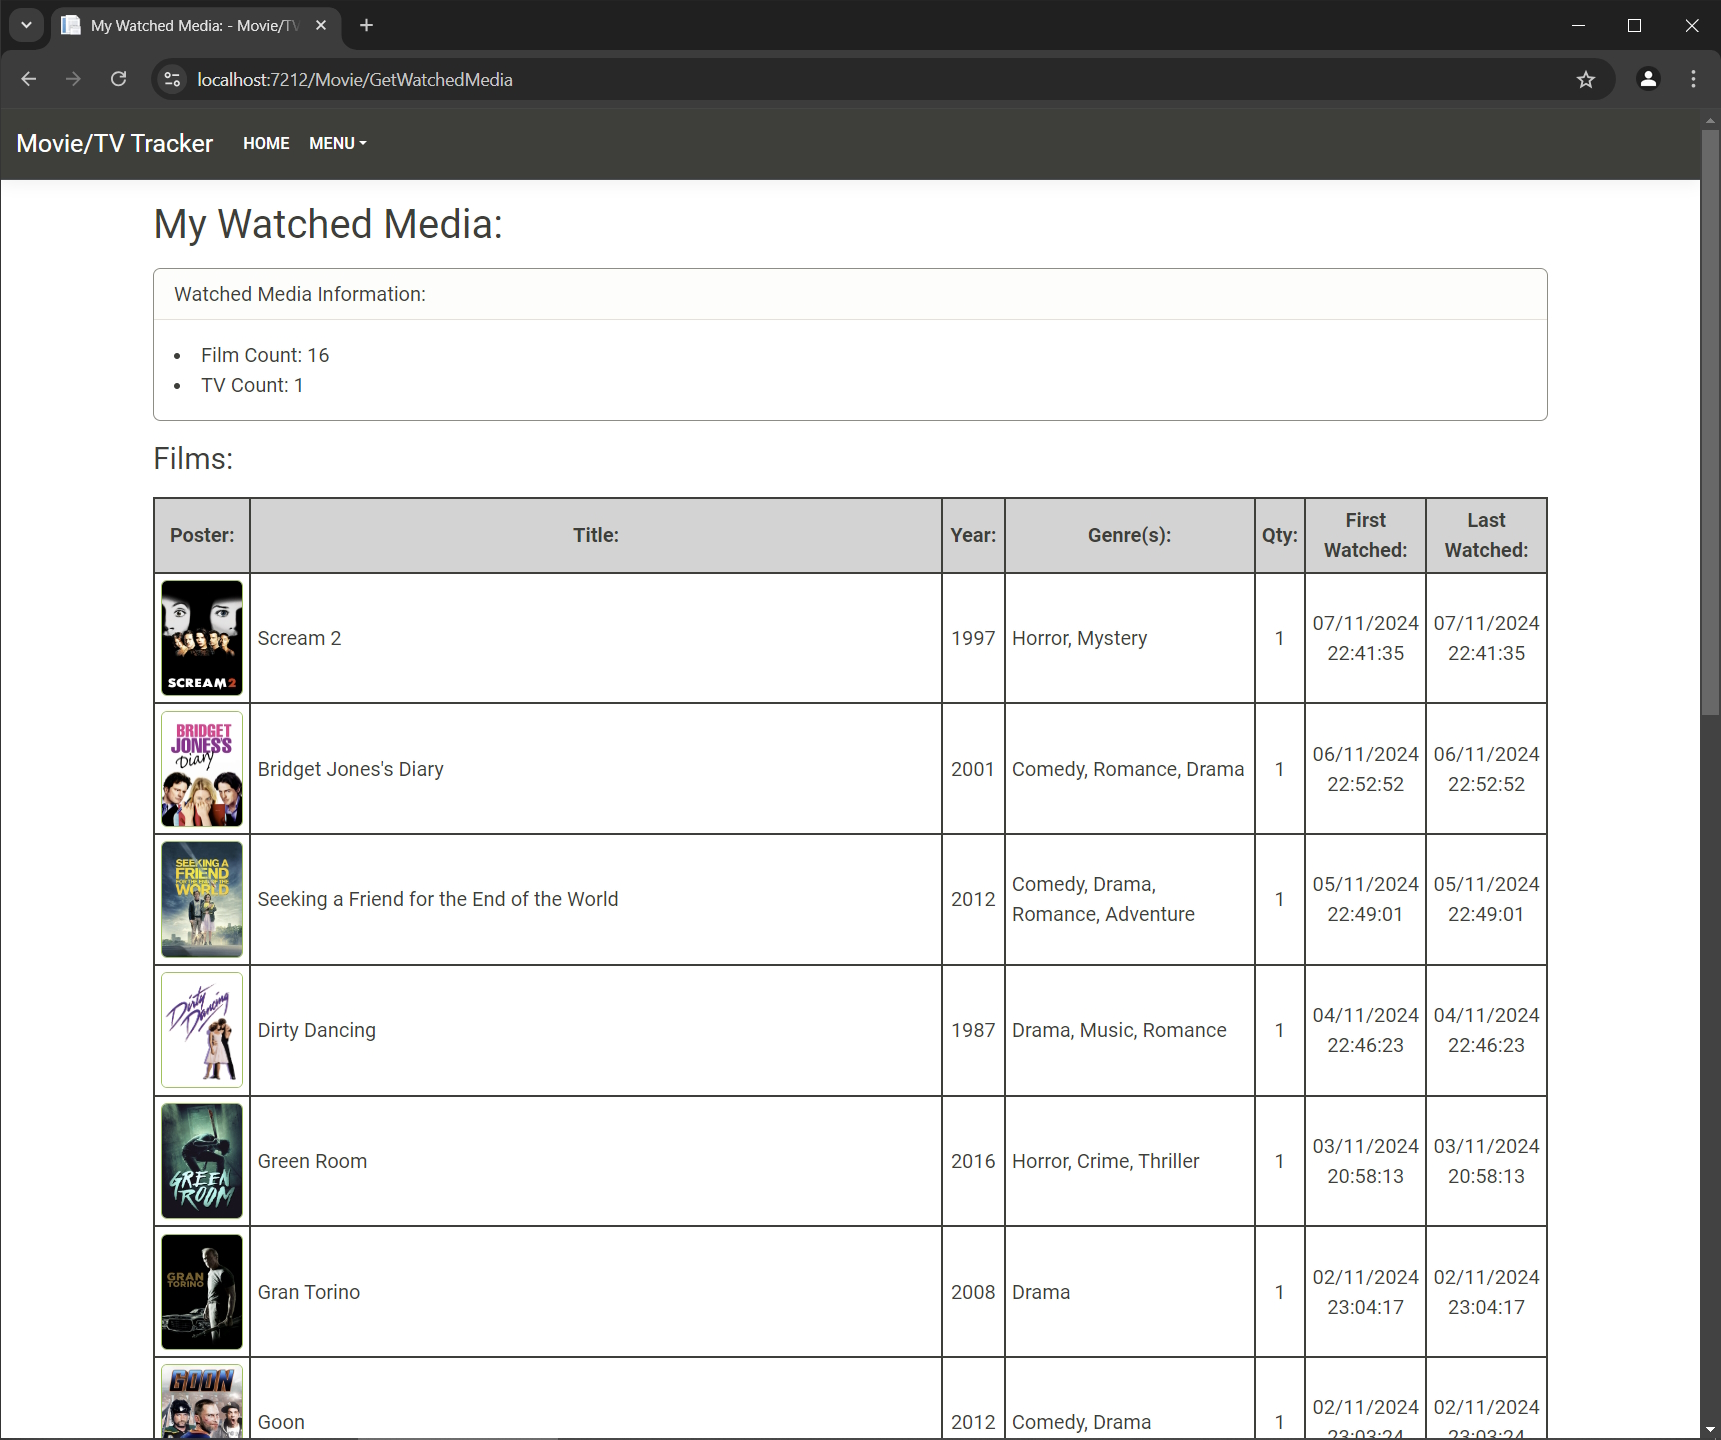
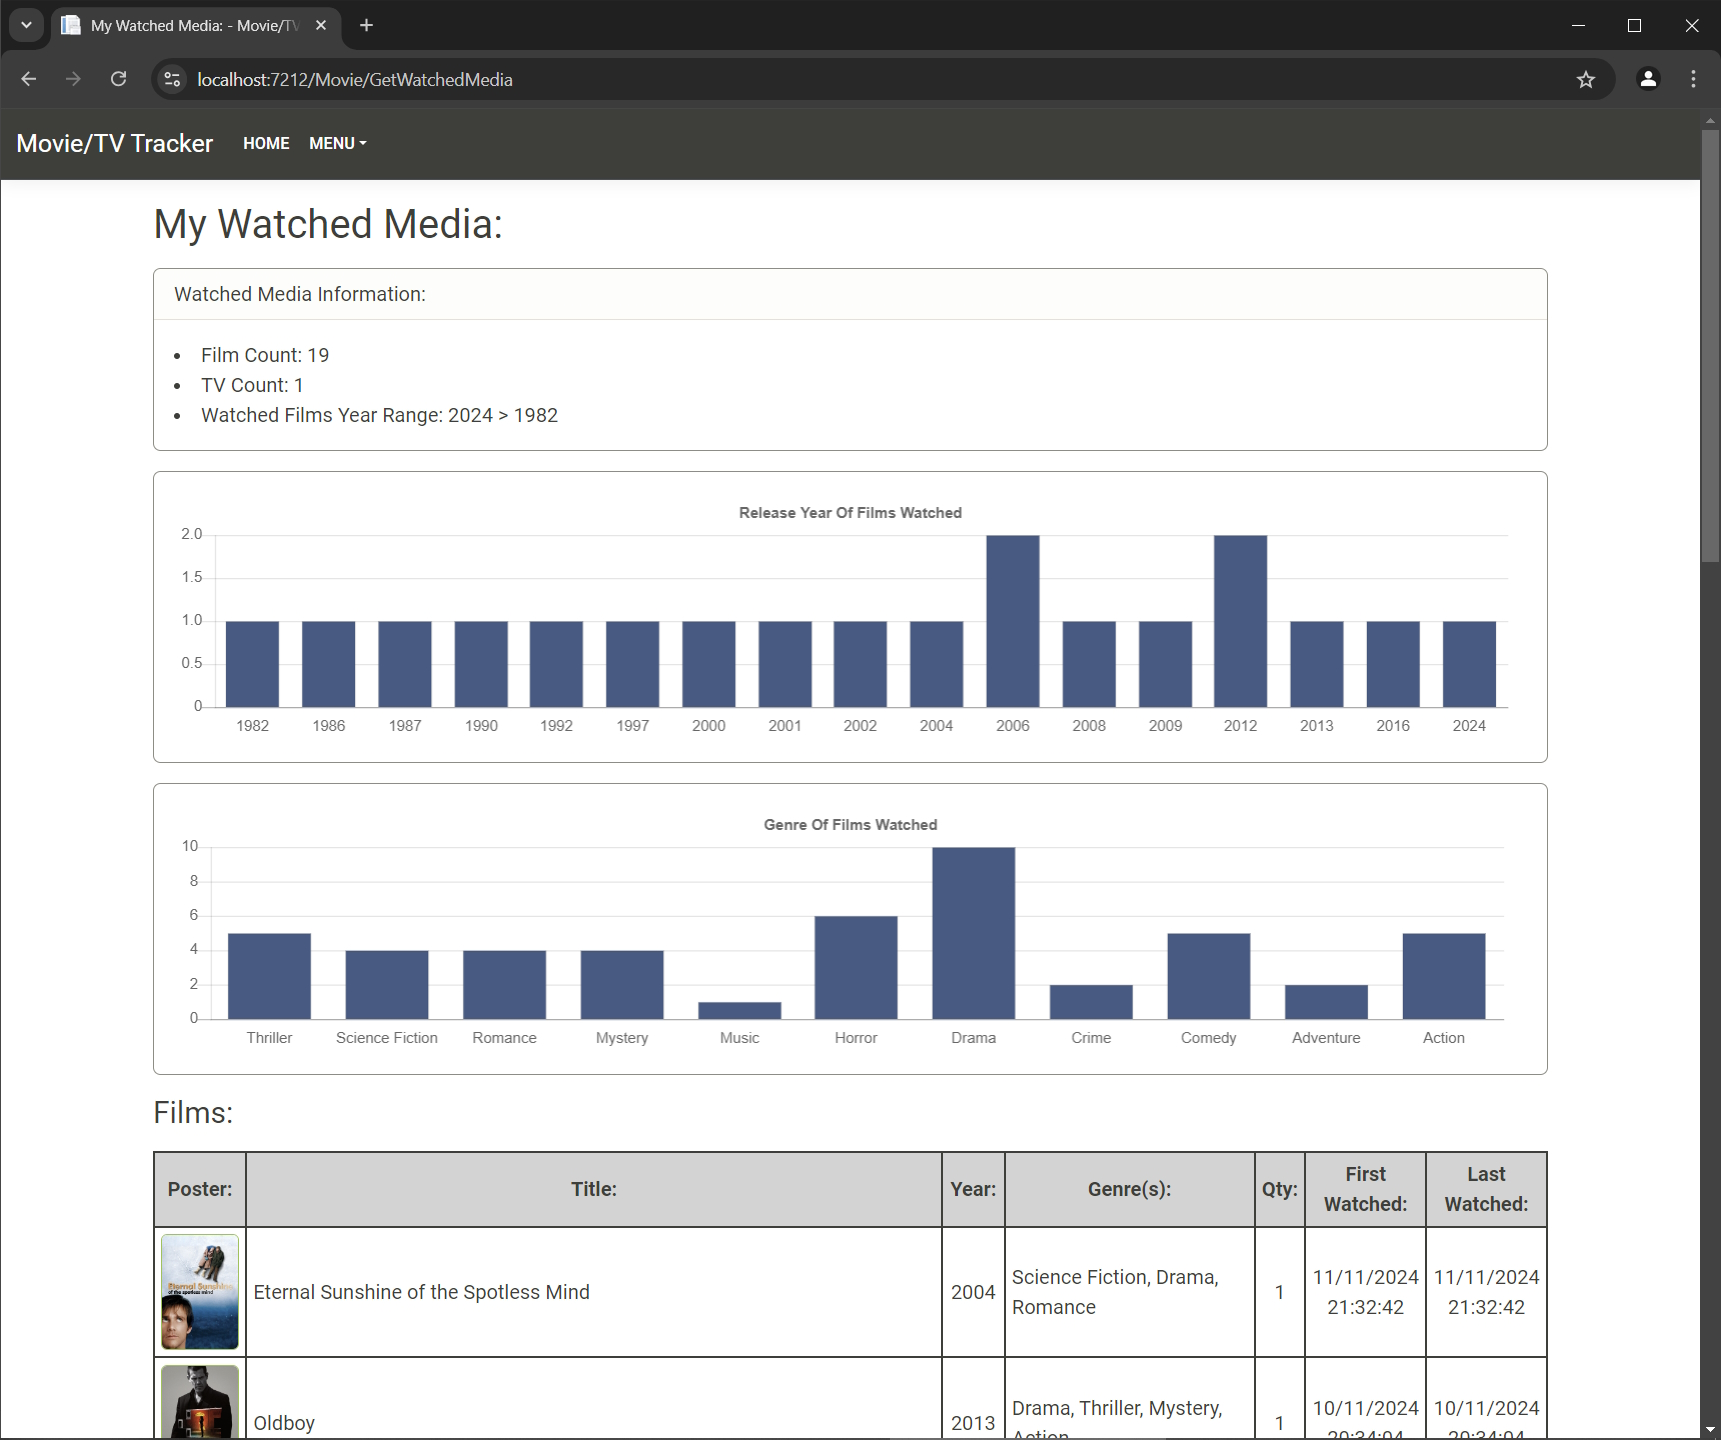
The watched media page now shows graph data for years / genre of movies watched by the user.  Updated ReadMe.Md / Images.

diff --git a/MovieTvTracker.Web/Class/GetStatistics.cs b/MovieTvTracker.Web/Class/GetStatistics.cs
@@ -48,7 +48,7 @@ namespace MovieTvTracker.Web.Class
                 }
             }
 
-            media.Stats.FilmYears = media.Stats.FilmYears.OrderByDescending(x => x.Year).ToList();
+            media.Stats.FilmYears = media.Stats.FilmYears.OrderBy(x => x.Year).ToList();
             media.Stats.FilmGenres = media.Stats.FilmGenres.OrderByDescending(x => x.Genre).ToList();
 
             return media;

diff --git a/README.md b/README.md
@@ -21,6 +21,7 @@ The second part of this project is a full-stack application consisting of a ASP.
 - Display of actor/actress information.
 - Ability to mark films/tv shows the user has watched and have them displayed under a dedicated section for reference.
 - Ability to mark favorite actors and have them displayed under a dedicated section for reference.
+- Show graph data of film years and genres the user has watched
 
 NOTE!:
 
@@ -30,12 +31,14 @@ Technologies / Principles Used:
 
 - C#
 - ASP.NET MVC Core
-- Console
-- Class Library
+- JQuery
+- CSS / Bootstrap Themes & Icons
+- Chart.js
 - REST API
 - TMDB API
-- NET Core (Console & Class Library)
-- CSS / Bootstrap Themes & Icons
+- Console
+- Class Library
+- NET Core
 - RestSharp
 - Newtonsoft.Json
 - Entity Framework - Code first approach
@@ -53,6 +56,8 @@ Resources / Credits:
 - https://getbootstrap.com/docs/5.3/getting-started/introduction/
 - https://icons.getbootstrap.com/
 - https://bootswatch.com/sandstone/
+- https://www.chartjs.org/docs/latest/
+- https://www.w3schools.com/ai/ai_chartjs.asp
 
 Images:
 
@@ -67,6 +72,7 @@ Images:
 ![Alt text](Images/MovieTvTrackerPersonResult2.jpg)
 ![Alt text](Images/MovieTvTrackerPersonResult3.jpg)
 ![Alt text](Images/MovieTvTrackerWatchedMedia1.jpg)
+![Alt text](Images/MovieTvTrackerWatchedMedia2.jpg)
 ![Alt text](Images/MovieTvTrackerFavoriteActor1.jpg)
 ![Alt text](Images/MovieTvTrackerEnd1.jpg)
 ![Alt text](Images/MovieTvTrackerEnd2.jpg)
